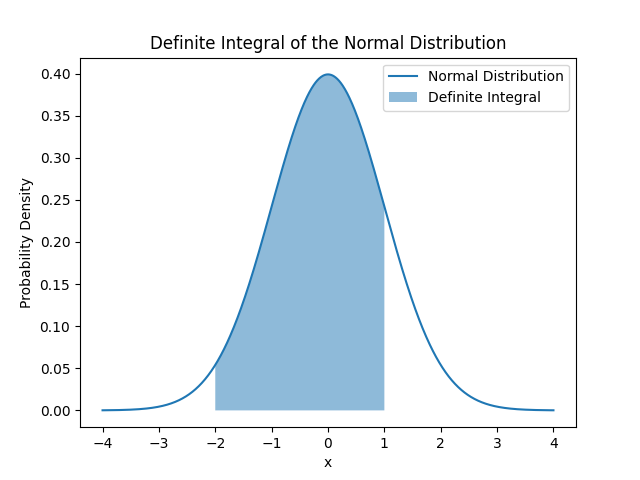
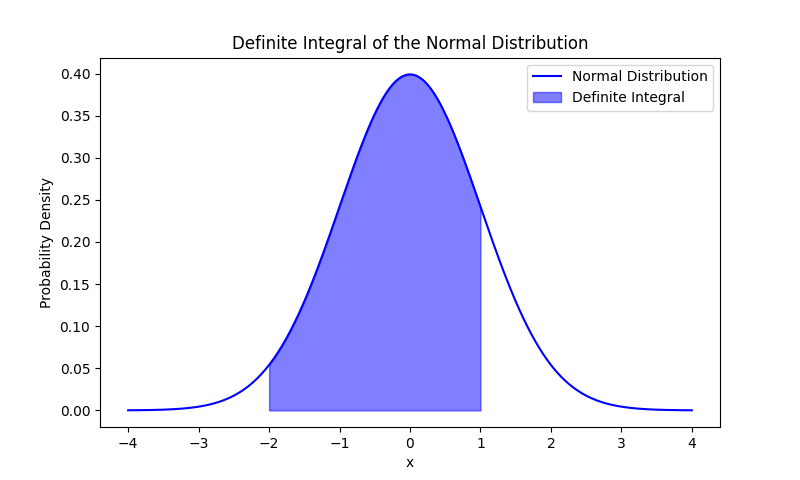
chatgpt output figures added

diff --git a/figures/ndi-num/ndi-num.py b/figures/ndi-num/ndi-num.py
@@ -1,0 +1,48 @@
+import numpy as np
+import matplotlib.pyplot as plt
+from scipy.stats import norm
+import matplotlib.patches as mpatches
+
+plt.figure(figsize=(8, 4.8))
+
+# Define the range and density of the x-axis
+x = np.linspace(-4, 4, 1000)
+
+# Normal distribution values
+y = norm.pdf(x)
+
+# Area under the curve for a specific range
+x_fill = np.linspace(-2, 1, 500)  # Range for filling under the curve
+y_fill = norm.pdf(x_fill)
+
+# Create the plot for the normal distribution
+plt.plot(x, y, label='Normal Distribution', color='blue')
+plt.fill_between(x_fill, y_fill, alpha=0.5, color='blue', label='Definite Integral')
+
+# Numerical Integration using rectangles
+num_rectangles = 6
+width = (1 - (-2)) / num_rectangles  # Width of each rectangle
+x_rectangles = np.linspace(-2, 1, num_rectangles, endpoint=False)  # Left side of each rectangle
+
+# Draw rectangles with red outline and lighter red fill
+for i in range(num_rectangles):
+    left_height = norm.pdf(x_rectangles[i])
+    right_height = norm.pdf(x_rectangles[i] + width)
+    rect_height = min(left_height, right_height)
+    plt.gca().add_patch(plt.Rectangle((x_rectangles[i], 0), width, rect_height,
+                                      edgecolor='red', facecolor='lightcoral', alpha=0.5))
+
+# Create a custom patch for the legend
+rect_patch = mpatches.Patch(color='lightcoral', edgecolor='red', label='Numerical Approximation')
+
+# Add labels, title, and legend
+plt.xlabel('x')
+plt.ylabel('Probability Density')
+plt.title('Numerical Integration Approximation')
+plt.legend(handles=[rect_patch, plt.Line2D([0], [0], color='blue', label='Normal Distribution'),
+                    plt.Rectangle((0, 0), 1, 1, color='blue', label='Definite Integral', alpha=0.5)],
+           loc='upper right')
+
+# Save the figure
+plt.savefig('ndi-num.png')
+plt.show()

diff --git a/figures/ndi/ndi.py b/figures/ndi/ndi.py
@@ -2,6 +2,8 @@ import numpy as np
 import matplotlib.pyplot as plt
 from scipy.stats import norm
 
+plt.figure(figsize=(8, 4.8))
+
 # Define the range and density of the x-axis
 x = np.linspace(-4, 4, 1000)
 
@@ -13,8 +15,8 @@ x_fill = np.linspace(-2, 1, 500)  # Adjust -4 and 1 to your range
 y_fill = norm.pdf(x_fill)
 
 # Create the plot
-plt.plot(x, y, label='Normal Distribution')
-plt.fill_between(x_fill, y_fill, alpha=0.5, label='Definite Integral')
+plt.plot(x, y, color='blue', label='Normal Distribution')
+plt.fill_between(x_fill, y_fill, alpha=0.5, color='blue', label='Definite Integral')
 
 # Add labels and title
 plt.xlabel('x')
@@ -23,5 +25,5 @@ plt.title('Definite Integral of the Normal Distribution')
 plt.legend()
 
 # Save the figure
-plt.savefig('figures/ndi/ndi.png')
+plt.savefig('ndi.png')
 plt.show()
